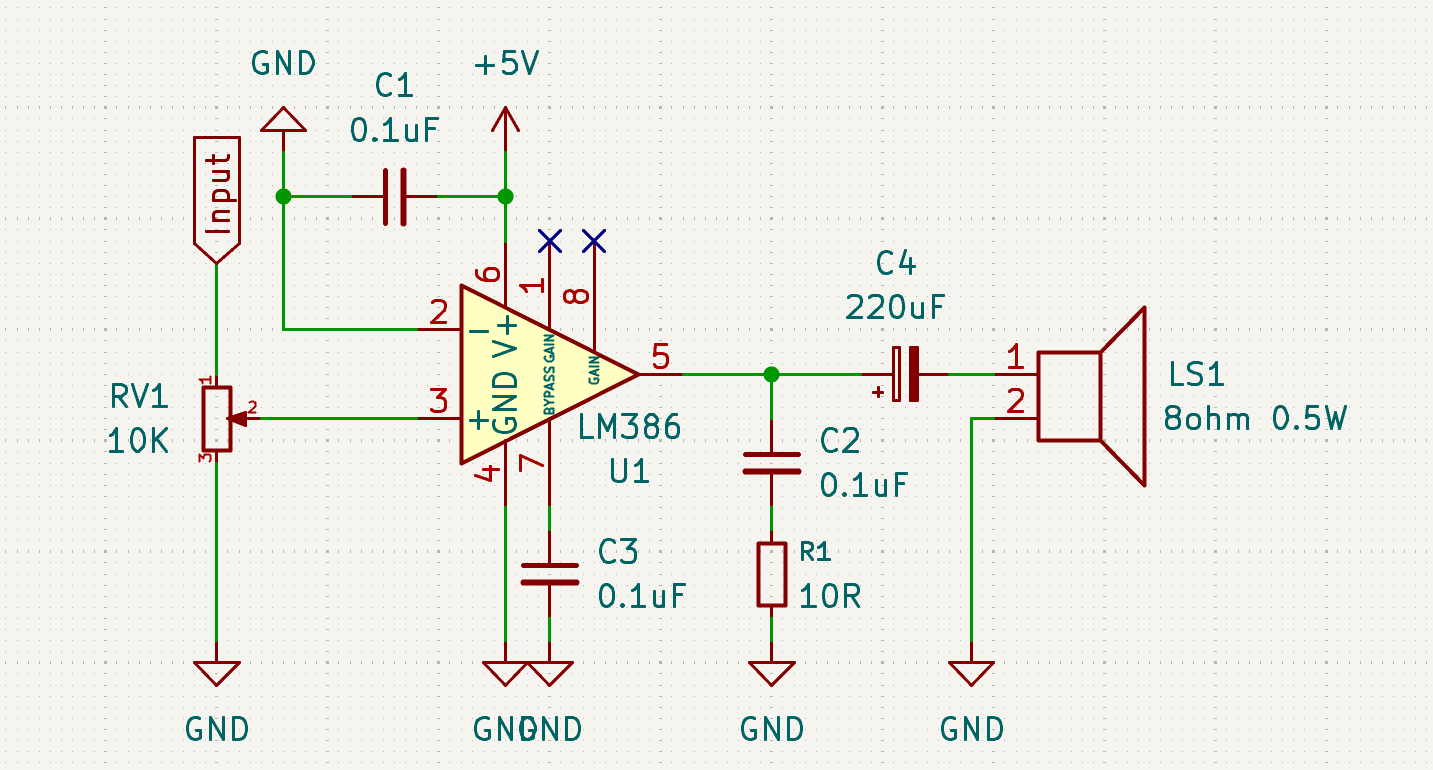
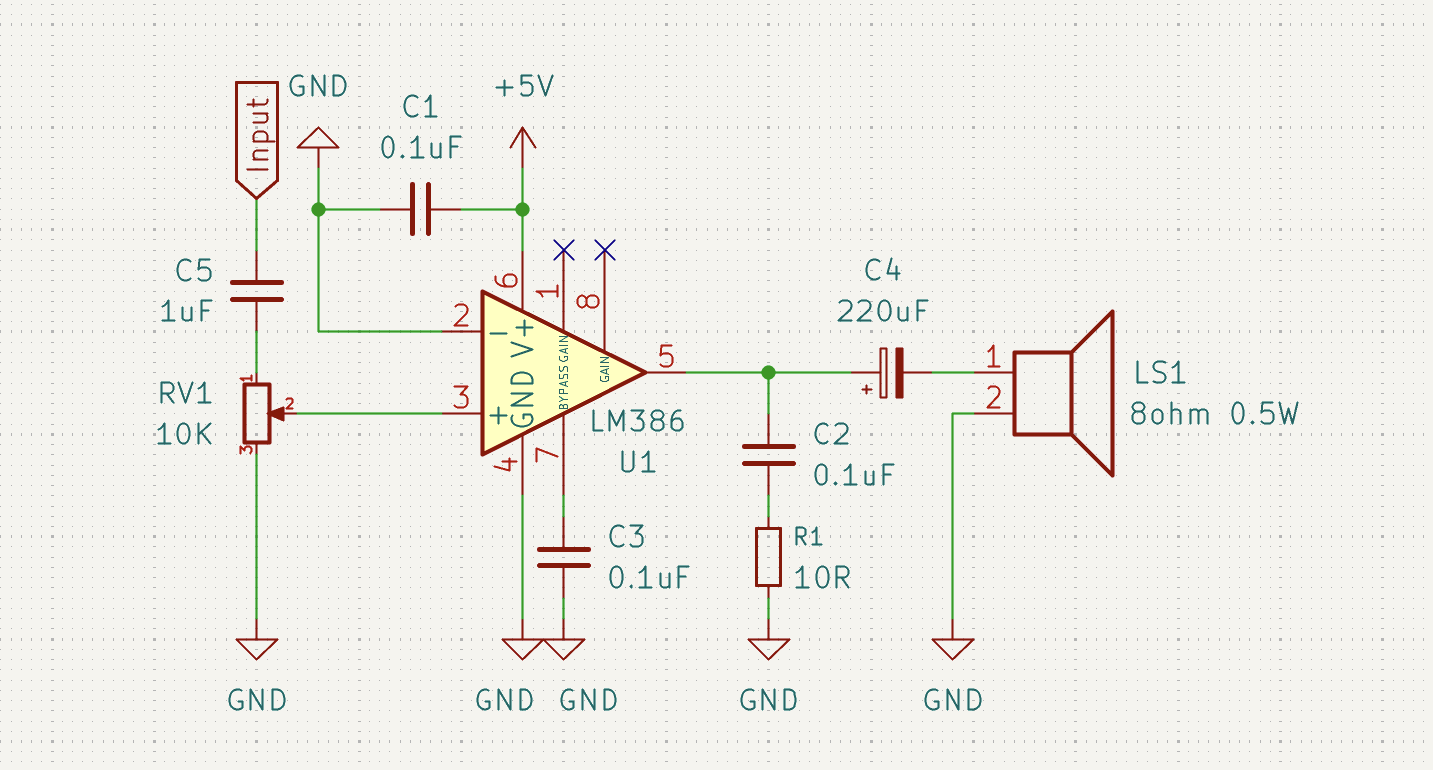
Save changes at: 1779452923

diff --git a/public/electronic/integrated-circuit/lm386/index.html b/public/electronic/integrated-circuit/lm386/index.html
@@ -125,6 +125,8 @@
       
     </div>
     <p>El <a href="datasheet.pdf">LM386</a> es un popular amplificador de audio ideal para iniciarse en electrónica, aunque no es de alta fidelidad (Hi-Fi). Consume muy poca energía, por lo que es apto para equipos alimentados con pilas. Se utiliza ampliamente en radios AM/FM, reproductores portátiles, intercomunicadores y otros dispositivos similares. Puede operar con tensiones de entre 5 V y 12 V, y ofrece una ganancia ajustable entre 20 y 200. Dependiendo de la versión y de la alimentación utilizada, puede entregar una potencia de salida entre 0,5 W hasta 1,25 W.</p>
+<p><img src="breadboard.png" alt=""></p>
+<p>Este es el esquema del circuito para obtener una ganancia de 20 que es más que suficiente:</p>
 <p><img src="schematic.png" alt=""></p>
 
   </article>

diff --git a/public/wiki/openpgp/index.html b/public/wiki/openpgp/index.html
@@ -127,6 +127,7 @@
 <li><a href="https://www.token2.eu/">token2</a> Hasta 2048</li>
 <li><a href="https://www.yubico.com/">yubico</a> Hasta 4096</li>
 <li><a href="https://www.nitrokey.com/">Nitrokey</a> Hasta 4096</li>
+<li><a href="https://secuxtech.com/">SecuX</a> Sin GPG.</li>
 </ul>
 <p>En <a href="https://keys.openpgp.org">esta página</a> puedes validar la identidad de una persona buscando por su clave pública, es recomendable que subas tu clave pública para que puedan verificar tu identidad ó recibir mensajes cifrados que solo tú puedes leer usando la clave privada.</p>
 <p>Dividimos el documento en múltiples secciones:</p>

diff --git a/content/electronic/integrated-circuit/lm386.md b/content/electronic/integrated-circuit/lm386.md
@@ -4,4 +4,8 @@ title = 'LM386'
 
 El [LM386](datasheet.pdf) es un popular amplificador de audio ideal para iniciarse en electrónica, aunque no es de alta fidelidad (Hi-Fi). Consume muy poca energía, por lo que es apto para equipos alimentados con pilas. Se utiliza ampliamente en radios AM/FM, reproductores portátiles, intercomunicadores y otros dispositivos similares. Puede operar con tensiones de entre 5 V y 12 V, y ofrece una ganancia ajustable entre 20 y 200. Dependiendo de la versión y de la alimentación utilizada, puede entregar una potencia de salida entre 0,5 W hasta 1,25 W.
 
+![](breadboard.png)
+
+Este es el esquema del circuito para obtener una ganancia de 20 que es más que suficiente:
+
 ![](schematic.png)

diff --git a/content/wiki/openpgp/_index.md b/content/wiki/openpgp/_index.md
@@ -11,6 +11,7 @@ A la hora de escoger una Security Key debe verificar que soporte openpgp y tambi
 - [token2](https://www.token2.eu/) Hasta 2048
 - [yubico](https://www.yubico.com/) Hasta 4096
 - [Nitrokey](https://www.nitrokey.com/) Hasta 4096
+- [SecuX](https://secuxtech.com/) Sin GPG.
 
 En [esta página](https://keys.openpgp.org) puedes validar la identidad de una persona buscando por su clave pública, es recomendable que subas tu clave pública para que puedan verificar tu identidad ó recibir mensajes cifrados que solo tú puedes leer usando la clave privada.
 
